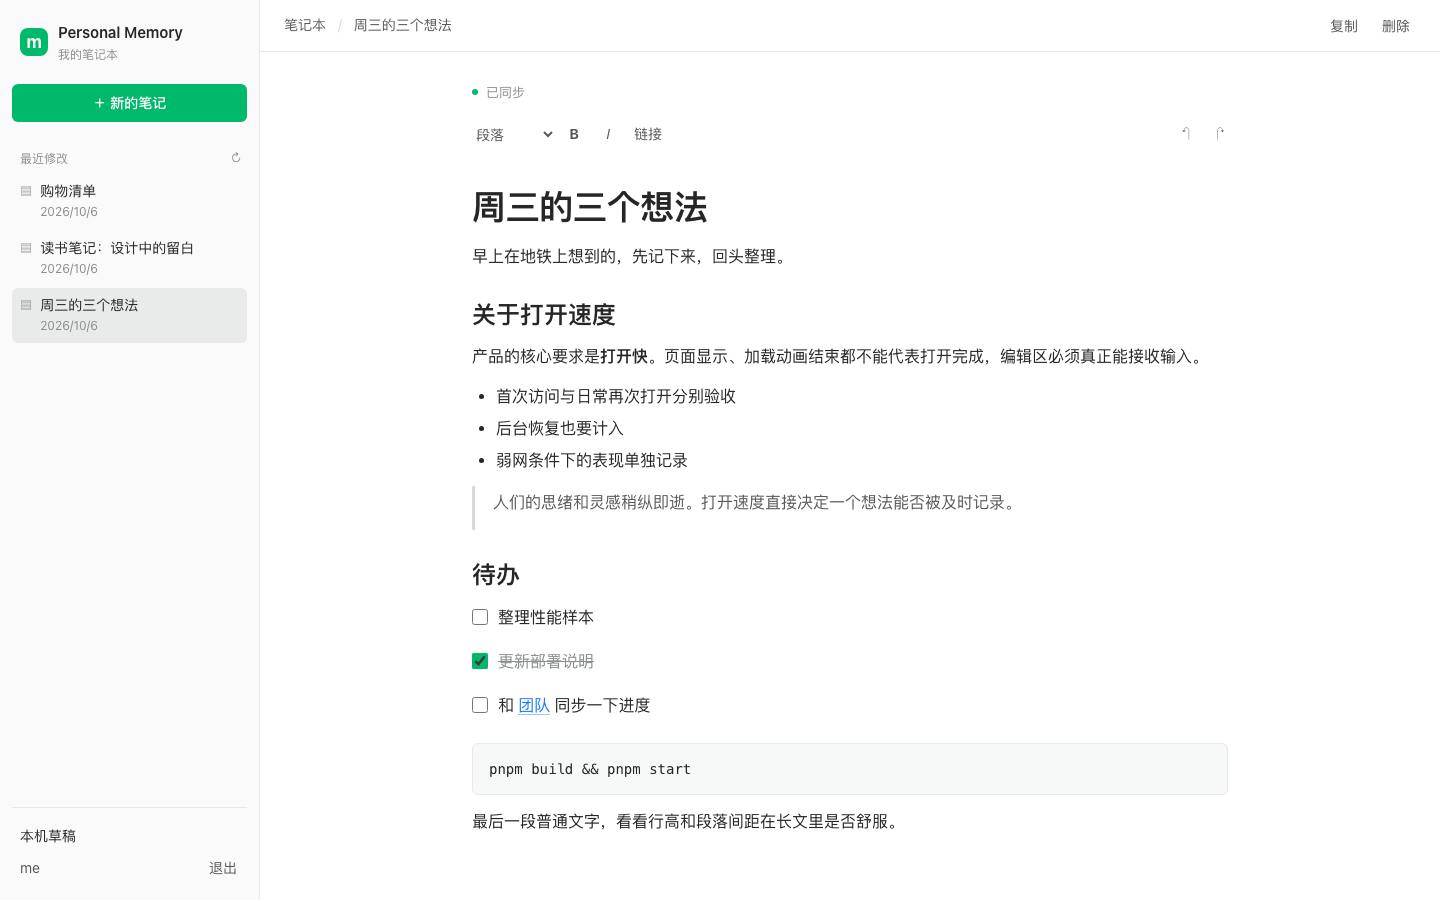
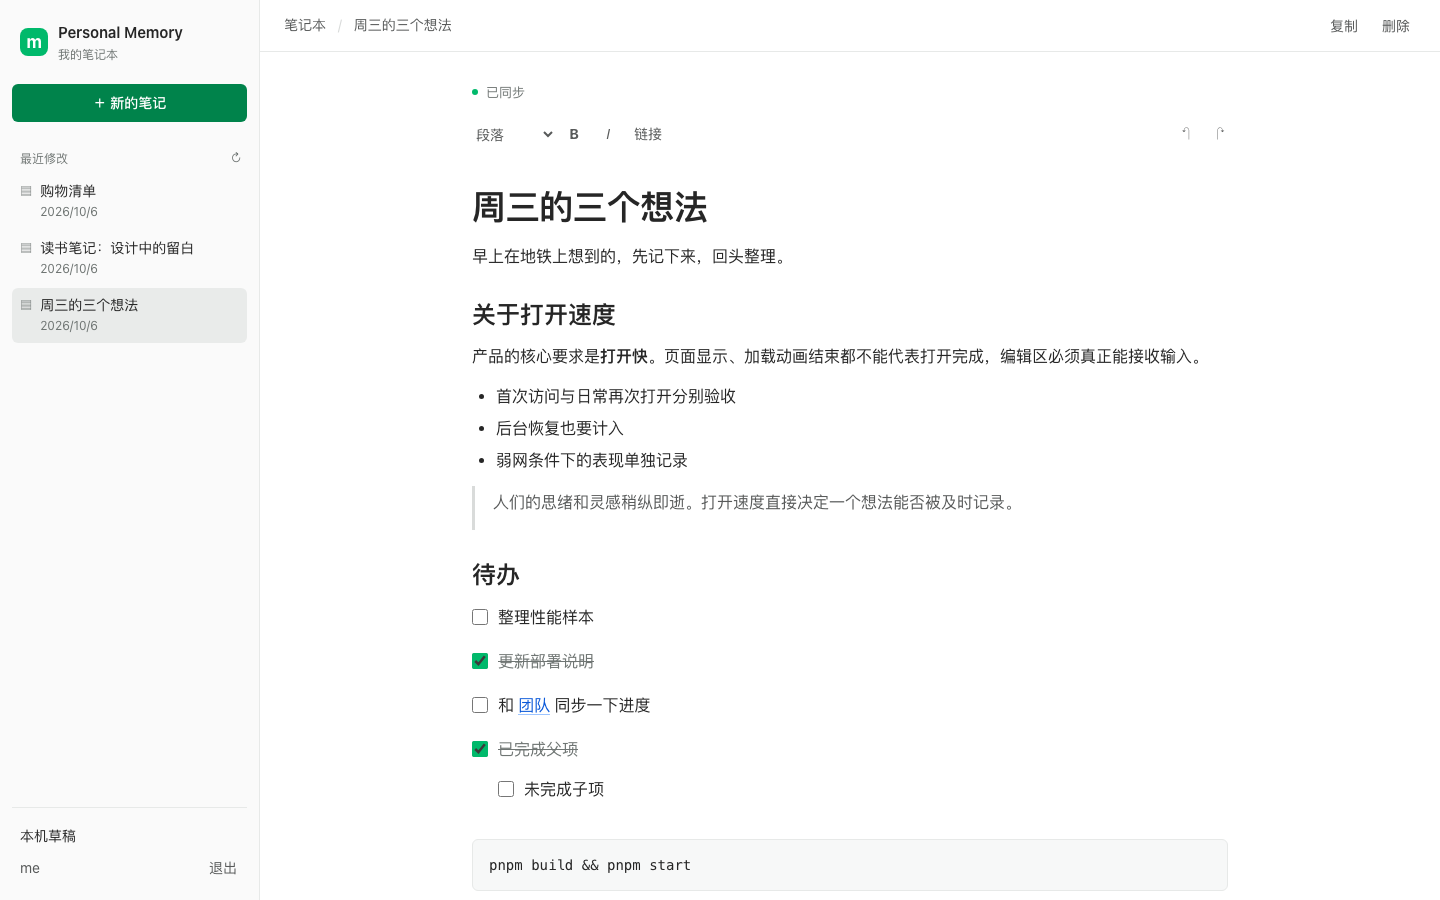
fix: keep task completion styling on the task and restore button contrast
Completed styling now targets the task's own paragraph, so nested
unfinished items stay upright and in ink colour. Solid buttons, focus
rings and input focus borders use a deeper green (4.8:1 default, 6.2:1
hover against white); the vivid brand green stays on the logo, status
dot and checkboxes. Muted text and content links are also darkened to
clear 4.5:1. A browser test covers both regressions.

Changed region(s): [[0.3125, 0.8089, 0.625, 0.9644], [0.0, 0.0933, 0.1875, 0.1556]]

diff --git a/tests/e2e/notebook.spec.ts b/tests/e2e/notebook.spec.ts
@@ -277,6 +277,60 @@ test('unsupported stored Markdown is read-only and is never rewritten on open', 
   expect(await page.evaluate(() => 'pmemUnsafe' in window)).toBe(false);
   expect(await (await context.request.get(`/api/v1/notes/${id}`)).text()).toBe(body);
 });
+test('completed task styling stays on that task and primary buttons keep readable contrast', async ({
+  context,
+  page,
+}) => {
+  const session = await login(context),
+    id = crypto.randomUUID();
+  await context.request.post(`/api/v1/notes/${id}`, {
+    headers: {
+      origin: 'http://127.0.0.1:4173',
+      'x-csrf-token': session.csrf,
+      'content-type': 'text/markdown',
+    },
+    data: '- [x] 已完成父项\n  - [ ] 未完成子项',
+  });
+  await page.goto(`/#/note/${id}`);
+  await ready(page);
+  const struck = (text: string) =>
+    page.getByText(text, { exact: true }).evaluate((el) => {
+      let node: Element | null = el;
+      while (node && !node.classList.contains('note-editor')) {
+        if (getComputedStyle(node).textDecorationLine.includes('line-through')) return true;
+        node = node.parentElement;
+      }
+      return false;
+    });
+  await expect.poll(() => struck('已完成父项')).toBe(true);
+  expect(await struck('未完成子项')).toBe(false);
+  expect(
+    await page
+      .getByText('未完成子项', { exact: true })
+      .evaluate(
+        (el) => getComputedStyle(el).color === getComputedStyle(el.closest('.note-editor')!).color,
+      ),
+  ).toBe(true);
+  const contrast = (button: ReturnType<typeof page.getByRole>) =>
+    button.evaluate((el) => {
+      const luminance = (css: string) => {
+        const [r, g, b] = css
+          .match(/\d+/g)!
+          .map(Number)
+          .map((v) => v / 255);
+        const lin = (c: number) => (c <= 0.03928 ? c / 12.92 : ((c + 0.055) / 1.055) ** 2.4);
+        return 0.2126 * lin(r) + 0.7152 * lin(g) + 0.0722 * lin(b);
+      };
+      const style = getComputedStyle(el),
+        text = luminance(style.color),
+        back = luminance(style.backgroundColor);
+      return (Math.max(text, back) + 0.05) / (Math.min(text, back) + 0.05);
+    });
+  const create = page.getByRole('button', { name: /新的笔记/ });
+  expect(await contrast(create)).toBeGreaterThanOrEqual(4.5);
+  await create.hover();
+  expect(await contrast(create)).toBeGreaterThanOrEqual(4.5);
+});
 test('unavailable IndexedDB leaves typing and copying possible without claiming a save', async ({
   context,
   page,

diff --git a/apps/web/src/style.css b/apps/web/src/style.css
@@ -2,11 +2,12 @@
   color-scheme: light;
   --ink: #262626;
   --ink-2: #585a5a;
-  --muted: #8a8f8d;
+  --muted: #6f7573;
   --brand: #00b96b;
-  --brand-dark: #009f5c;
+  --brand-strong: #00834b;
+  --brand-deep: #00703f;
   --brand-soft: #e6f7ef;
-  --link: #1677ff;
+  --link: #0958d9;
   --bg: #ffffff;
   --side: #fafafa;
   --hover: #f2f3f3;
@@ -59,7 +60,7 @@ button:disabled {
 button:focus-visible,
 a:focus-visible,
 select:focus-visible {
-  outline: 2px solid var(--brand);
+  outline: 2px solid var(--brand-strong);
   outline-offset: 2px;
 }
 input,
@@ -74,17 +75,17 @@ textarea {
 input:focus,
 textarea:focus {
   outline: none;
-  border-color: var(--brand);
+  border-color: var(--brand-strong);
   box-shadow: 0 0 0 3px var(--brand-soft);
 }
 .primary {
-  background: var(--brand);
+  background: var(--brand-strong);
   color: #fff;
   padding: 9px 18px;
   font-weight: 500;
 }
 .primary:hover {
-  background: var(--brand-dark);
+  background: var(--brand-deep);
 }
 .muted,
 small {
@@ -453,7 +454,7 @@ small {
   flex: 1;
   min-width: 0;
 }
-.note-editor ul[data-type='taskList'] > li[data-checked='true'] > div {
+.note-editor ul[data-type='taskList'] > li[data-checked='true'] > div > p {
   color: var(--muted);
   text-decoration: line-through;
 }
@@ -503,7 +504,7 @@ small {
   padding: 8px 20px 0;
 }
 .draft-hint button {
-  color: var(--brand-dark);
+  color: var(--brand-deep);
   background: var(--brand-soft);
 }
 .welcome {
